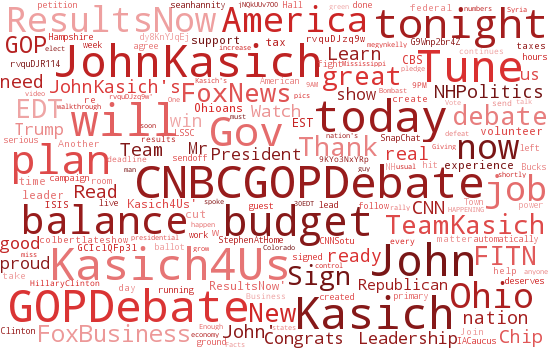
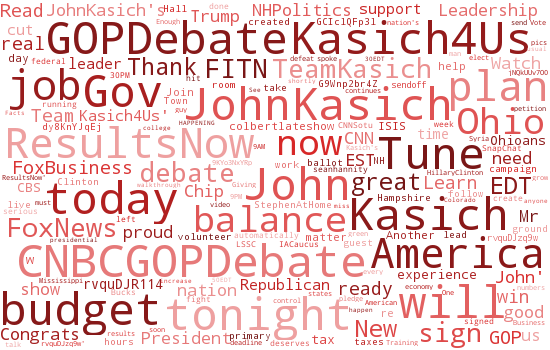
added Google web fonts

diff --git a/static/min.css b/static/min.css
@@ -1,6 +1,8 @@
 body {    
     margin: 0 !important;
     padding: 0 !important;
+	font-family: 'Roboto Condensed', sans-serif;
+	font-weight: 300;
 }
 
 body li {
@@ -10,7 +12,7 @@ body li {
 
 #navbar {
 	position: absolute;
-	top: 297px;
+	top: 273px;
 }
 
 #container {
@@ -24,16 +26,16 @@ img.left_star {
 	height: 25px;
 	width: 25px;
 	position: relative;
-	left: -285px;
-	top: 33px;
+	left: -320px;
+	top: 20px;
 }
 
 img.right_star {
 	height: 25px;
 	width: 25px;
 	position: relative;
-	left: 285px;
-	top: -30px;
+	left: 310px;
+	top: -18px;
 }
 
 
@@ -47,22 +49,26 @@ header {
 }
 
 header h1 {
- 	font-family: Gotham book, Arial, sans-serif;
-	font-size: 30px;
+ 	font-size: 30px;
 	color: #221F73;
 	margin-bottom: 0;
 	margin-top: 0;
-	/*line-height: 10px;*/
+	font-family: 'Roboto Condensed', sans-serif;
+	font-weight: 400;
+	letter-spacing: 5px;
+	line-height: 8px;
 }
 
 header h2 {
-
 	margin-top: 0;
-	font-family: Gotham, Arial, sans-serif;
 	font-weight: bold;
-	font-size: 30px;
+	font-size: 32px;
 	color: #C6282E;
-	line-height: 3px;
+	line-height: 1px;
+	font-family: 'Roboto Condensed', sans-serif;
+	font-weight: 700;
+	letter-spacing: 4px;
+
 }
 
 header p {
@@ -74,6 +80,8 @@ header p {
     max-width: 600px;
     text-align: center;
     margin:0 auto;
+	font-family: 'Roboto Condensed', sans-serif;
+	font-weight: 300;
 }
 
 header ul {
@@ -182,7 +190,7 @@ footer {
 	background: #C6282E;
 	color: white;
 	padding: 14px;
-	margin: 0;
+	margin-top: 35px;
 	border: 0;
 }
 

diff --git a/templates/base.html b/templates/base.html
@@ -1,6 +1,9 @@
 <!DOCTYPE html>
 <html>
   <head>
+    <!-- Web fonts from Google -->
+    <link href='https://fonts.googleapis.com/css?family=Roboto+Condensed:400,300,700' rel='stylesheet' type='text/css'>
+
     <title>{{ title }}</title>
     <meta name="viewport" content="width=device-width, initial-scale=1.0">
     <link href={{ url_for('static', filename='min.css') }} rel="stylesheet" media="screen">

diff --git a/make_wordclouds.py b/make_wordclouds.py
@@ -41,6 +41,10 @@ STOPWORDS.add('u200bGet')
 STOPWORDS.add('8pm')
 STOPWORDS.add('7pm')
 STOPWORDS.add('EDT')
+STOPWORDS.add('nClick')
+STOPWORDS.add('Click')
+
+
 
 inpath = 'static/bw_pngs/'
 outpath = 'static/wordcloud_pngs/'
